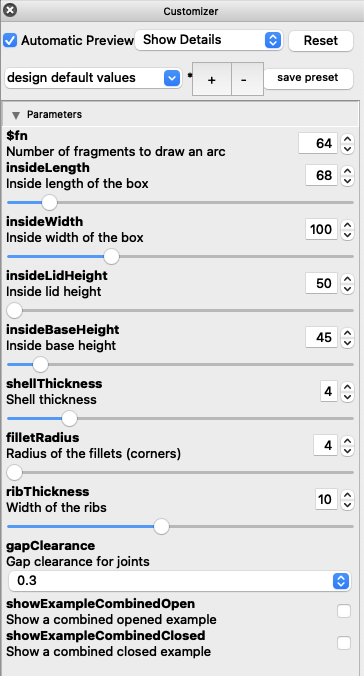
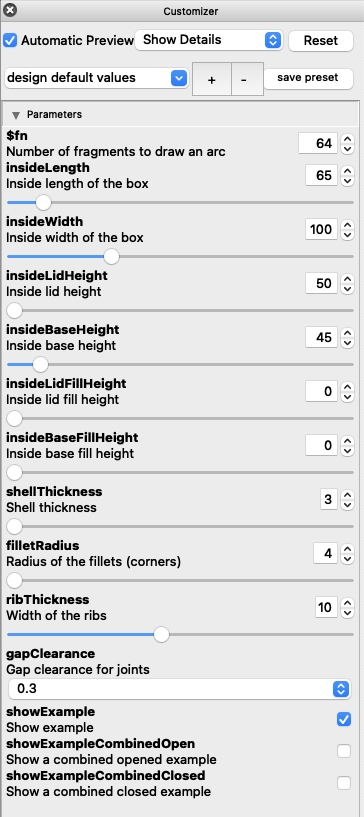
Height of box with lip is internal height

Changed region(s): [[0.0, 0.0, 0.9973, 0.9941], [0.4231, 0.7766, 0.4835, 0.8077]]

diff --git a/README.md b/README.md
@@ -25,6 +25,7 @@ Arguments:
 * __length__ Inside length of the box. Best between 50-220
 * __width__ Inside width of the box. Best between 50-220
 * __height__ Inside height of the box. Best between 50-220
+* __fill__ Inside fill height of the box. Between 0 and `height` (default: `0`)
 * __shell__ The thickness of the walls (side and bottom). Between 3-9 (default: `3`)
 * __fillet__ Radius of the fillets (corners). Between 4-20 (default: `4`)
 * __rib__ Rib thickness (width). Between 6-20 (default: `10`)
@@ -50,6 +51,5 @@ openBox(length=65, width=100, height=45, top=false);
 
 ## TODO
 
-1. Height of lip should not add to the internal height
-2. Minumum lid snap width
-3. Maximum lid snap width
+1. Minumum lid snap width
+2. Maximum lid snap width
